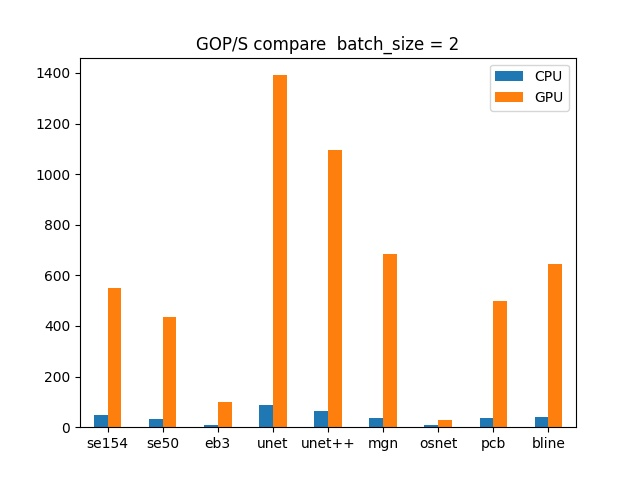
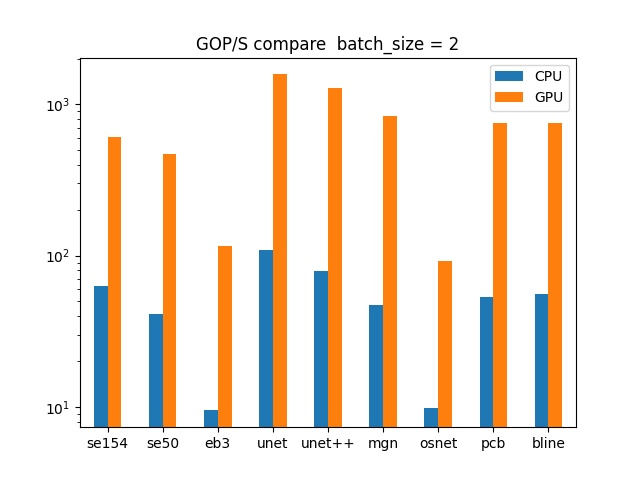
do log

diff --git a/benchmark_op.py b/benchmark_op.py
@@ -200,7 +200,7 @@ class DLHBenchmark():
                 file_name = "results/final/final_ops_" + str(batch_size)
                 benchmark_ops_new = pandas.DataFrame(benchmark_ops, index = self.model_simple)
                 fig1_title = "GOP/S compare  " + "batch_size = " + str(batch_size)
-                ops_pt = benchmark_ops_new.plot(kind="bar", title=fig1_title, rot=0)
+                ops_pt = benchmark_ops_new.plot(kind="bar", title=fig1_title, logy=True, rot=0)
                 ops_fig = ops_pt.get_figure()
                 fig1_name = "results/final/fig_ops_" + str(batch_size) + ".jpg"
                 ops_fig.savefig(fig1_name)
@@ -209,7 +209,7 @@ class DLHBenchmark():
                 file_name = "results/final/final_opj_" + str(batch_size)
                 benchmark_opj_new = pandas.DataFrame(benchmark_opj, index = self.model_simple)
                 fig2_title = "GOP/J compare  " + "batch_size = " + str(batch_size)
-                opj_pt = benchmark_opj_new.plot(kind="bar", title=fig2_title, rot=0)
+                opj_pt = benchmark_opj_new.plot(kind="bar", title=fig2_title, logy=True, rot=0)
                 opj_fig = opj_pt.get_figure()
                 fig2_name = "results/final/fig_opj_" + str(batch_size) + ".jpg"
                 opj_fig.savefig(fig2_name)
